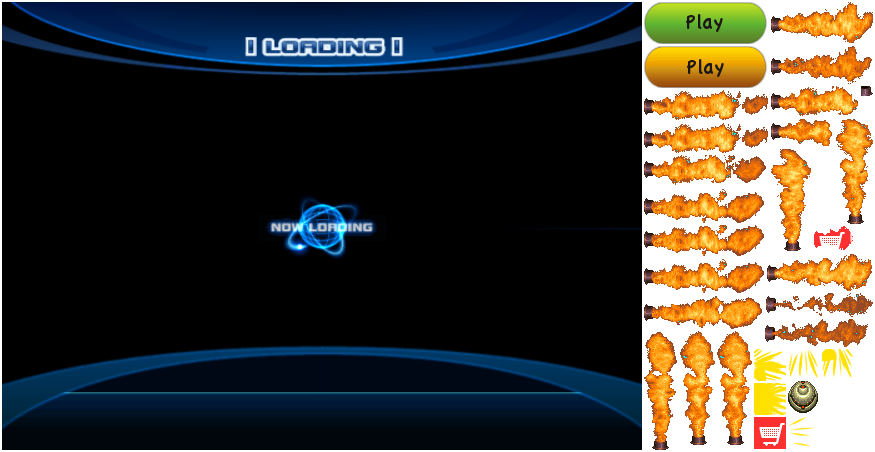
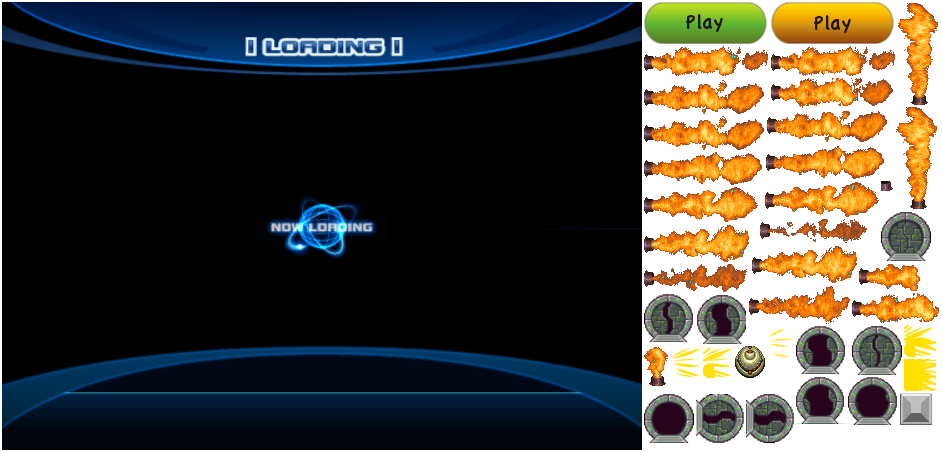
floorGateway

diff --git a/Classes/LandFloorGateway.cpp b/Classes/LandFloorGateway.cpp
@@ -1,0 +1,42 @@
+#include "LandFloorGateway.h"
+#include "GameManager.h"
+
+USING_NS_CC;
+
+bool LandFloorGateway::init()
+{
+	if( !LandObject::init() )
+	{
+		return false;
+	}
+	m_MainSprite = GET_RESOURCE_MANAGER()->createSprite( ST_FLOORGATEWAY );
+	m_MainSprite->setAnchorPoint( Point( 0.5 , 0 ) );
+	this->addChild( m_MainSprite );
+	m_OpenAnimation = GET_RESOURCE_MANAGER()->createAnimation( AT_FLOORGATEWAY_OPEN );
+
+	m_Type = OT_FLOOR_GATEWAY;
+	m_Width = 32;
+	m_Height = 32;
+	m_IsOverlapable = true;
+	m_IsOpen = false;
+
+	return true;
+}
+
+void LandFloorGateway::collisionOccured( InteractiveObject* enemy , Directions dir )
+{
+	if( !m_IsOpen && enemy->getType() == OT_PLAYER && GET_INPUT_MANAGER()->getKeyState( KC_UP ) )
+	{
+		m_IsOpen = true;
+		auto animate = Animate::create( m_OpenAnimation );
+		auto callfunc = CallFuncN::create( CC_CALLBACK_1( LandFloorGateway::gotoNextFloor , this ) );
+		auto action = Sequence::create( animate , callfunc , NULL );
+		m_MainSprite->runAction( action );
+	}
+}
+
+void LandFloorGateway::gotoNextFloor( Ref* sender )
+{
+	GET_STAGE_MANAGER()->changeFloor( GET_STAGE_MANAGER()->getCurStageNum() + 1);
+}
+

diff --git a/Classes/GameLayer.cpp b/Classes/GameLayer.cpp
@@ -3,6 +3,7 @@
 #include "GameLayer.h"
 #include "LandFloor.h"
 #include "LandBlock.h"
+#include "LandFloorGateway.h"
 #include "RushMonster.h"
 #include "BatMonster.h"
 #include "Villager.h"
@@ -137,6 +138,10 @@ InteractiveObject*	 GameLayer::addObject( ObjectType type , Point position )
 		case OT_TRAP:
 			object = LandTrap::create();
 			zOrder = GameLayer::ZOrder::GAME_OBJECT;
+			break;
+		case OT_FLOOR_GATEWAY:
+			object = LandFloorGateway::create();
+			zOrder = GameLayer::ZOrder::LAND_OBJECT;
 			break;
 		default:
 			return nullptr;

diff --git a/Classes/LandFloorGateway.h b/Classes/LandFloorGateway.h
@@ -1,0 +1,16 @@
+#pragma once
+#include "cocos2d.h"
+#include "LandObject.h"
+
+class LandFloorGateway : public LandObject
+{
+public:
+	OVERRIDE bool		init();
+	virtual void		collisionOccured( InteractiveObject* enemy , Directions dir );
+	void				gotoNextFloor(cocos2d::Ref* sender);
+	CREATE_FUNC( LandFloorGateway );
+
+private:
+	cocos2d::Animation*		m_OpenAnimation;
+	bool					m_IsOpen;
+};

diff --git a/Classes/LoadingScene.h b/Classes/LoadingScene.h
@@ -6,7 +6,7 @@ class LoadingScene : public cocos2d::Scene
 public:
 	static cocos2d::Scene*	createScene();
 	virtual bool			init();
-	virtual void			update(float dTime);
+	void					initGame(float unused);
 	CREATE_FUNC( LoadingScene );
 
 private:
